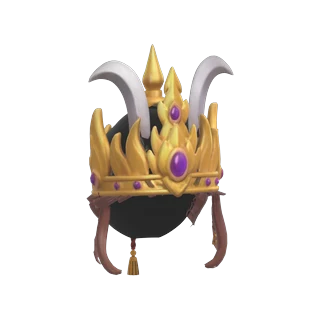
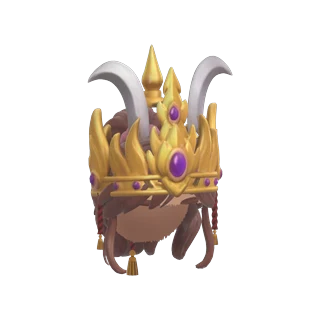
fix(art): 갓 위로 삐져나온 머리 누르기, 여자 장군 투구는 두건 대신 머리 위 왕관 (#341)
- hat_hair.py down: 위에서 아래로도 검사해 챙 위로 나온 머리를 챙 아래로
- cap_for=man,cap_black: 두건은 남자만, 여자는 두피를 되살림 / crown_for=girl,1.2,0.045: 여자용 왕관을 키워 머리 위에 얹음 / pull=0
- gat.glb, general.glb(near 80000), 투구 카드 그림, 문서 갱신

diff --git a/tools/character/hat_hair.py b/tools/character/hat_hair.py
@@ -5,7 +5,11 @@ __for_girl (the game draws it on that character only, characterLook.ts) and kept
 hat lies between the head's centre and it is pulled in to `gap` (3 mm) inside the hat, so the hair shows only where
 it comes out from under the hat (under the brim, below a cap). drop_hair=1 also takes the hat item's own brown hair
 (Tripo's, rougher than the default hair) out of it; its dark parts (hat, ribbon) stay. man= or girl= empty: none.
-hair_faces=N cuts each copy down to about N faces (off: raise the outfit's near budget instead). strict=1 (a cap fitting the skull) keeps only the hair wholly outside the hat, in pieces of strict_min faces or more."""
+hair_faces=N cuts each copy down to about N faces (off: raise the outfit's near budget instead). cap_for=man,cap_black: that material (the general's cap) is the man's only; the girl gets her scalp back instead.
+pull=0 leaves the hair where it is (a crown on the girl's hair: pulled in, the strands crossing it went spiky).
+over=1 (a cap under a crown): the hat's cap (material over_mat, e.g. cap_black, else its near-black
+faces) is laid over by the hair, not hidden under.
+strict=1 (a cap fitting the skull) keeps only the hair wholly outside the hat, in pieces of strict_min faces or more."""
 import bpy, bmesh, sys, re, os
 import numpy as np
 from mathutils import Vector
@@ -51,13 +55,65 @@ if opt.get('drop_hair', '0') == '1':
         bmesh.ops.delete(bm, geom=brown, context='FACES'); bm.to_mesh(o.data); bm.free()
         print('DROP', o.name, len(brown), 'brown hair faces')
 
-# the hat, world space
-hb = bmesh.new()
+# cap_for=man,MAT (the general's helmet): the cap under the crown (material MAT, cap_black) becomes the man's piece,
+# item__HAIR__<set>__for_man; the girl wears the crown on her own hair instead (the black dome behind the crown looked
+# odd, user). The scalp the cap hid (body__...HAIR<set>... pieces) comes back in the girl's piece, so her hair sits
+# on her head, not on nothing.
+CAP_FOR = opt.get('cap_for')
+if CAP_FOR:
+    who, mat = CAP_FOR.split(',')
+    for k, o in enumerate(list(hats)):
+        mi = next((i for i, m in enumerate(o.data.materials) if m and m.name.startswith(mat)), None)
+        # (and the near-black faces of the other material: Tripo's own black cap, under the body's)
+        img = image_of(o); w_, h_ = img.size; P = np.array(img.pixels[:], np.float32).reshape(h_, w_, -1)[..., :3]
+        def is_cap(f, uvl):
+            if f.material_index == mi: return True
+            return np.mean([P[min(h_ - 1, int(l[uvl].uv.y * h_)), min(w_ - 1, int(l[uvl].uv.x * w_))] for l in f.loops], 0).max() < float(opt.get('cap_dark', 0.12))
+        c = o.copy(); c.data = o.data.copy(); bpy.context.scene.collection.objects.link(c)
+        for ob, keep_cap in ((c, True), (o, False)):
+            bm = bmesh.new(); bm.from_mesh(ob.data); uvl = bm.loops.layers.uv.active
+            bmesh.ops.delete(bm, geom=[f for f in bm.faces if is_cap(f, uvl) != keep_cap], context='FACES')
+            bm.to_mesh(ob.data); bm.free()
+        c.name = f'item__HAIR__{SET}__for_{who}' + (f'_{k + 20}' if k else '')
+        print('CAP', len(c.data.polygons), 'cap faces to', c.name)
+    other = 'girl' if who == 'man' else 'man'
+    for k, o in enumerate([o for o in bpy.data.objects if o.type == 'MESH' and base(o).startswith('body__')
+                           and f'HAIR{SET}' in re.findall(r'[A-Z]+[a-z0-9]+', base(o))]):
+        c = o.copy(); c.data = o.data.copy(); bpy.context.scene.collection.objects.link(c)
+        if 'tokens' in c.keys(): del c['tokens']
+        rest = [t for t in re.findall(r'[A-Z]+[a-z0-9]+', base(o)) if t != f'HAIR{SET}']
+        # (still hidden under the other items that hid it: body__HAIRg_TOPh stays under the dopo's collar)
+        c.name = f'item__HAIR__{SET}__for_{other}' + (f'__under_{"_".join(rest)}' if rest else '') + f'_{k + 30}'
+        print('SCALP', o.name, len(c.data.polygons), 'faces to', c.name)
+
+# crown_for=girl,S,DZ (with cap_for: the general's crown on the girl): her hair is fuller than the cap, so the crown
+# sat buried in it. The rest of the hat becomes the man's piece too, and the girl gets her own copy of it, scaled by
+# S about the head's centre and raised DZ, sitting on her hair (pull=0 leaves her hair as it is).
+CROWN_FOR = opt.get('crown_for')
+
+# the hat, world space. over=1 (the general's helmet): its near-black faces are a cap the hair goes OVER (the girl's
+# hair covers it, the black dome behind the crown looked odd, user); the rest (crown, horns) the hair goes under.
+OVER = opt.get('over', '0') == '1'
+hb, cb_ = bmesh.new(), bmesh.new()
 for o in hats:
     me = o.evaluated_get(bpy.context.evaluated_depsgraph_get()).to_mesh()
     t = bmesh.new(); t.from_mesh(me); t.transform(o.matrix_world)
+    if OVER:
+        img = image_of(o); w_, h_ = img.size; P = np.array(img.pixels[:], np.float32).reshape(h_, w_, -1)[..., :3]
+        uvl = t.loops.layers.uv.active
+        dark = lambda f: np.mean([P[min(h_ - 1, int(l[uvl].uv.y * h_)), min(w_ - 1, int(l[uvl].uv.x * w_))] for l in f.loops], 0).max() < float(opt.get('over_dark', 0.12))
+        cap = bmesh.new(); tmpc = bpy.data.meshes.new('c'); t.to_mesh(tmpc); cap.from_mesh(tmpc); bpy.data.meshes.remove(tmpc)
+        cap.faces.ensure_lookup_table(); t.faces.ensure_lookup_table()
+        # (the cap is its own material, cap_black on the general: by name when given, else by its near-black texel)
+        mats = [m.name if m else '' for m in o.data.materials]; cm = opt.get('over_mat')
+        is_dark = [mats[f.material_index].startswith(cm) if cm else dark(f) for f in t.faces]
+        bmesh.ops.delete(cap, geom=[f for f, k in zip(cap.faces, is_dark) if not k], context='FACES')
+        bmesh.ops.delete(t, geom=[f for f, k in zip(t.faces, is_dark) if k], context='FACES')
+        tmp = bpy.data.meshes.new('c'); cap.to_mesh(tmp); cap.free(); cb_.from_mesh(tmp); bpy.data.meshes.remove(tmp)
+        print('OVER', sum(is_dark), 'dark cap faces of', len(is_dark))
     tmp = bpy.data.meshes.new('t'); t.to_mesh(tmp); t.free(); hb.from_mesh(tmp); bpy.data.meshes.remove(tmp)
 hat_bvh = BVHTree.FromBMesh(hb); hb.free()
+cap_bvh = BVHTree.FromBMesh(cb_) if OVER else None; cb_.free()
 
 # the head's centre: the middle of the body's head (faces the Head bone leads)
 heads = []
@@ -71,18 +127,44 @@ lo = Vector([min(p[i] for p in heads) for i in range(3)]); hi = Vector([max(p[i]
 centre = (lo + hi) / 2
 print('HEAD centre', [round(x, 3) for x in centre], 'size', [round(x, 3) for x in hi - lo])
 
+if CROWN_FOR:
+    who_c, S_, DZ_ = CROWN_FOR.split(','); S_, DZ_ = float(S_), float(DZ_)
+    other_c = 'man' if who_c == 'girl' else 'girl'
+    from mathutils import Matrix
+    for k, o in enumerate(list(hats)):
+        if not o.data.polygons: continue
+        c = o.copy(); c.data = o.data.copy(); bpy.context.scene.collection.objects.link(c)
+        T_ = Matrix.Translation(centre + Vector((0, 0, DZ_))) @ Matrix.Scale(S_, 4) @ Matrix.Translation(-centre)
+        mw = c.matrix_world; c.data.transform(mw.inverted() @ T_ @ mw)
+        c.name = f'item__HAIR__{SET}__for_{who_c}' + f'_{k + 40}'
+        o.name = f'item__HAIR__{SET}__for_{other_c}' + f'_{k + 50}'
+        print('CROWN', c.name, 'x', S_, 'up', DZ_, ';', o.name)
+
 for variant in ('man', 'girl'):
     hid = opt.get(variant, {'man': 'b', 'girl': 'e'}[variant])
     if not hid: continue
     for k, o in enumerate(meshes(f'item__HAIR__{hid}')):
         c = o.copy(); c.data = o.data.copy(); bpy.context.scene.collection.objects.link(c)
         mw, imw = c.matrix_world, c.matrix_world.inverted(); n_ = 0; pulled = set()
+        n_over = 0
         for v in c.data.vertices:
             p = mw @ v.co; d = p - centre; L = d.length
             if L < 1e-6: continue
-            hit = hat_bvh.ray_cast(centre, d / L, L)
+            u = d / L
+            if cap_bvh:                              # under the cap: pushed out over it
+                ch = cap_bvh.ray_cast(centre, u, L + 0.08)
+                if ch[0] is not None and (ch[0] - centre).length > L - GAP:
+                    p = ch[0] + u * float(opt.get('over_gap', 0.004)); L = (p - centre).length; v.co = imw @ p; n_over += 1
+            hit = hat_bvh.ray_cast(centre, u, L) if opt.get('pull', '1') == '1' else (None,)
             if hit[0] is not None:                   # the hat lies between the head's centre and this vertex
-                v.co = imw @ (hit[0] - d / L * GAP); n_ += 1; pulled.add(v.index)
+                p = hit[0] - u * GAP; v.co = imw @ p; n_ += 1; pulled.add(v.index)
+            # (and straight down: over the brim, by the crown's foot, the ray from the centre could pass the gap between
+            # the crown and the brim and hair stuck up through the brim, user)
+            DOWN = float(opt.get('down', 0.12))
+            dn = hat_bvh.ray_cast(p + Vector((0, 0, 0.0005)), Vector((0, 0, -1)), DOWN) if DOWN > 0 else (None,)
+            if dn[0] is not None and (p - centre).length > 0.05 and p.z > centre.z:
+                v.co = imw @ Vector((p.x, p.y, dn[0].z - GAP)); n_ += 1; pulled.add(v.index)
+        if cap_bvh: print('HAIR', n_over, 'vertices laid over the cap')
         # faces wholly pulled in lie under the hat, never seen: they go (the helmet hid nine tenths of the girl's hair)
         cb = bmesh.new(); cb.from_mesh(c.data)
         gone = [f for f in cb.faces if all(v.index in pulled for v in f.verts)]

diff --git a/docs/character-outfits.md b/docs/character-outfits.md
@@ -140,8 +140,14 @@
 
 ```bash
 "$B" -b --python tools/character/hat_hair.py -- shared_layers_h.glb hh1.glb set=h drop_hair=1        # 갓: 남녀 모두 기본 머리로
-"$B" -b --python tools/character/hat_hair.py -- hh1.glb hh2.glb set=g man= girl=e                    # 장군 투구: 남자는 그대로, 여자 머리만
+"$B" -b --python tools/character/hat_hair.py -- hh1.glb hh2.glb set=g man= girl=e cap_for=man,cap_black crown_for=girl,1.2,0.045 down=0 pull=0   # 장군 투구
 ```
+
+- 갓은 머리 중심에서 바깥으로 당기는 것에 더해, 위에서 아래로도 검사해 챙 위로 삐져나온 머리를 챙 아래로 누른다(`down`, 기본 12 cm). 왕관 모양 투구에는 쓰지 않는다(`down=0`).
+- 장군 투구는 두건(검은 모자)이 머리를 덮는 모양이라, 여자에게 씌우면 뒤로 검은 공처럼 보였다. 그래서 여자에게는 두건을 빼고 왕관을 머리 위에 얹는다.
+  - `cap_for=man,cap_black`: 두건(재질 `cap_black`과 거의 검은 면)은 남자 조각으로만 두고, 두건이 가리던 두피는 여자 조각에 되살린다(같이 가리던 상의가 있으면 `__under_` 규칙 유지).
+  - `crown_for=girl,1.2,0.045`: 여자용 왕관을 머리 중심 기준 1.2배, 4.5 cm 위로 복사해 머리 위에 얹는다. 원래 크기면 왕관이 머리에 파묻혔다.
+  - `pull=0`: 여자 머리는 당기지 않는다. 당기면 왕관을 지나는 머리카락이 가시처럼 삐죽해졌다.
 
 - 머리를 넣은 옷 파일은 `to_game.py`의 `near`를 머리 몫만큼 올린다(갓 4만 → 7만 5천). 그대로 두면 촘촘한 머리가 삼각형을 다 가져가 도포가 거칠어지고 어깨에 구멍이 생겼다(도포 17,324 → 6,674). 머리를 미리 크게 줄이면(`hair_faces`) 머리 텍스처가 줄무늬처럼 깨져서 쓰지 않는다.
 - 카드 그림은 `item_art.py ... variant=girl`로 `-girl` 그림(`outfit-gat-h-hair-girl.webp`)을 따로 만든다. 옷장은 여자 캐릭터일 때 이 그림을 먼저 쓴다.
